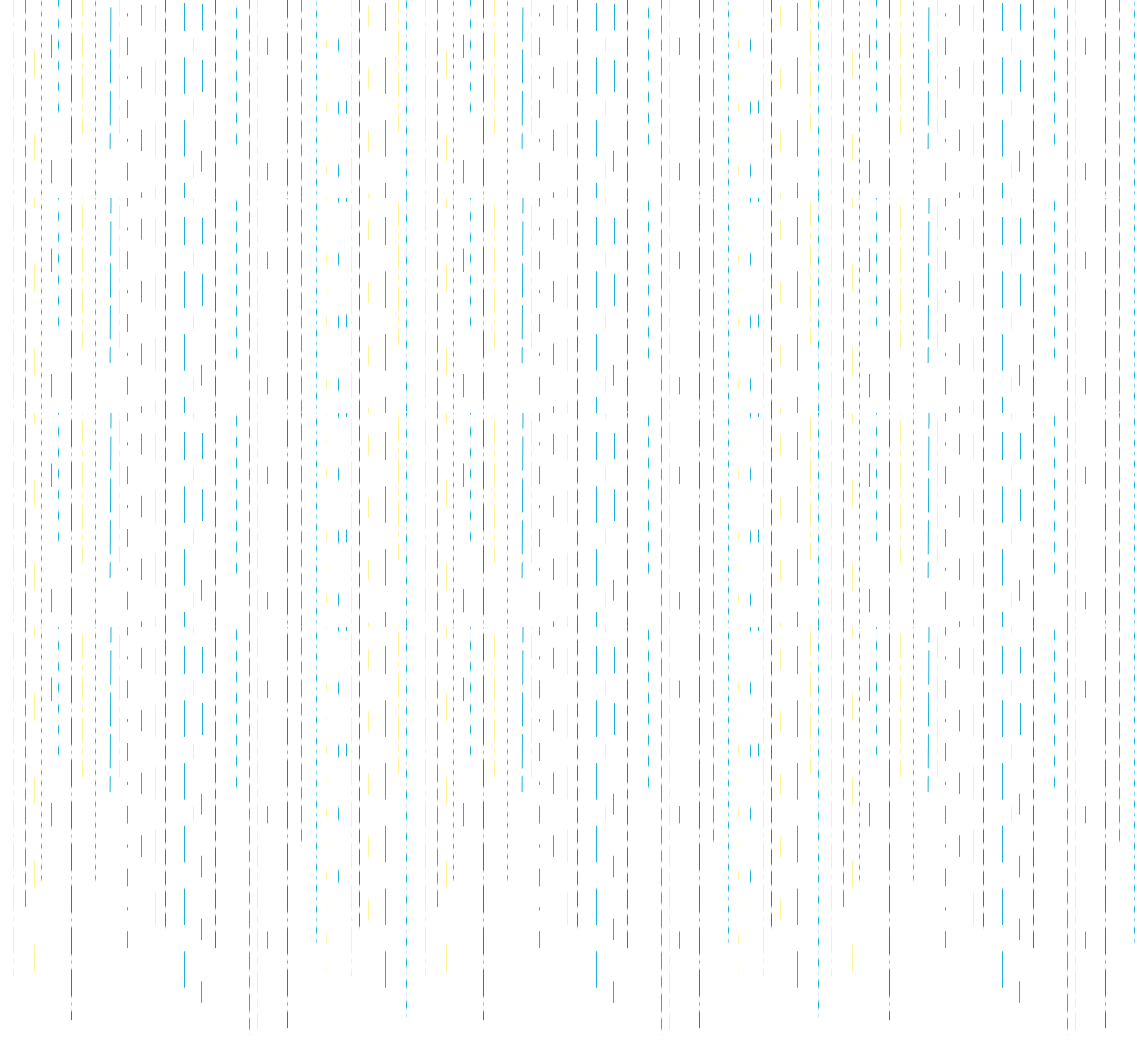
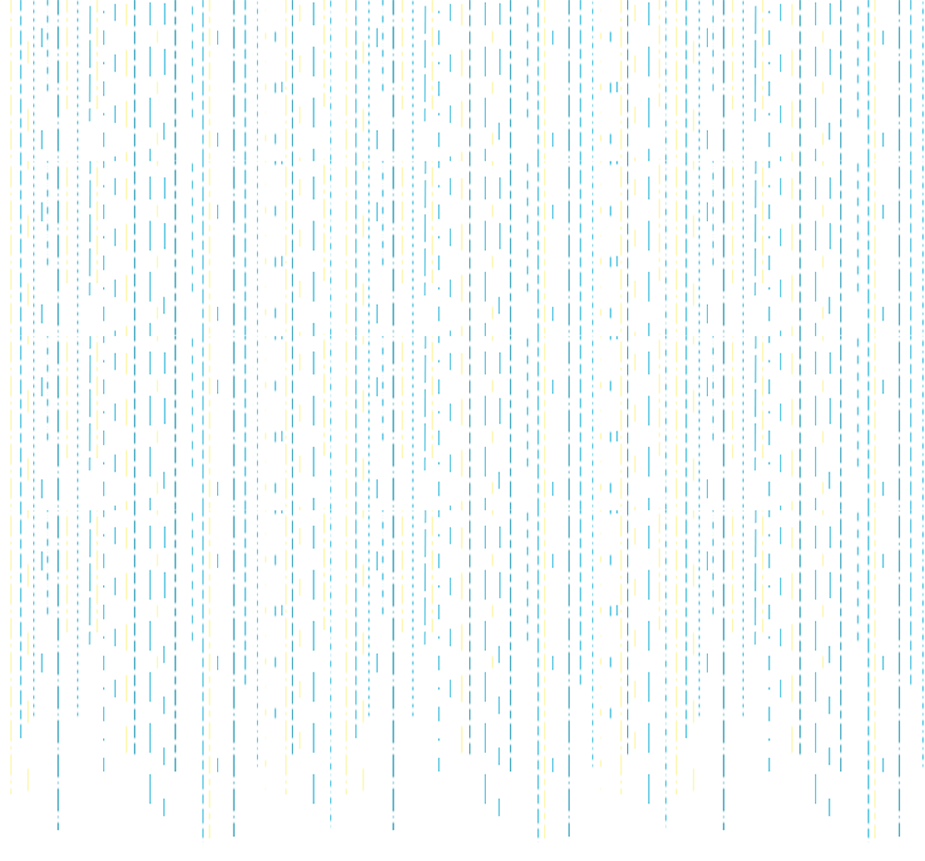
changed image sizes

diff --git a/about.html b/about.html
@@ -20,13 +20,11 @@
 		</div>
 		<div class='span8' id='content_body'>
 			<a href='index.html'><img src="images/logo_header4.png" width="1000" height="241" alt="Logo Header4" /></a>
-			<!-- <img src="images/logo_header3.png" width="3600" height="700" id='logo_header'> -->
 			<p id='nav_text' class='pull-right'>
 				<a href='about.html' class='links'>About</a> | <a href='portfolio.html' class='links'>Portfolio</a> | <a href='contact.html' class='links'>Contact</a>
 			</p>
 			<div class='row-fluid'>
 				<div class='span6'>
-					<!-- <img src="images/rain.png" width="433" height="433" id="rain"> -->
 					<img src="images/rain.png" width="417" height="433" alt="Rain">
 					<img src="images/profile.png" width="250" height="250" id="profile">
 				</div>

diff --git a/portfolio.html b/portfolio.html
@@ -48,13 +48,12 @@
 		</div>
 		<div class='span8' id='content_body'>
 			<a href='index.html'><img src="images/logo_header4.png" width="3600" height="868" alt="logo_header" /></a>
-			<!-- <img src="images/logo_header3.png" width="3600" height="700" id='logo_header'> -->
 			<p id='nav_text' class='pull-right'>
 				<a href='about.html' class='links'>About</a> | <a href='portfolio.html' class='links'>Portfolio</a> | <a href='contact.html' class='links'>Contact</a>
 			</p>
 			<div class='row-fluid'>
 				<div class='span12'>
-					 <img src="images/rain_long.png" width="1137" height="1058" id="rain_large" />
+					 <img src="images/rain_long.png" width="925" height="861" id="rain_large" />
 				</div>
 			<div>	
 		</div>

diff --git a/style.css b/style.css
@@ -41,13 +41,13 @@ a:hover {
 	letter-spacing: 1px;
 }
 #rain_large {
-	margin: -25px 0px 0px -5px;
+	margin: -25px 0px 0px 5px;
 	opacity: 0.8;
 }
 
 #bb-custom-grid {
 	position: relative;
-	top: -930px;
+	top: -915px;
 }
 /*ul.bb-custom-grid li h3 {
 	color: #ffffff;

diff --git a/index.css b/index.css
@@ -14,5 +14,5 @@ a:hover {
 	text-decoration: none;
 }
 #logo {
-	margin-top: 70px;
+	margin-top: 50px;
 }
